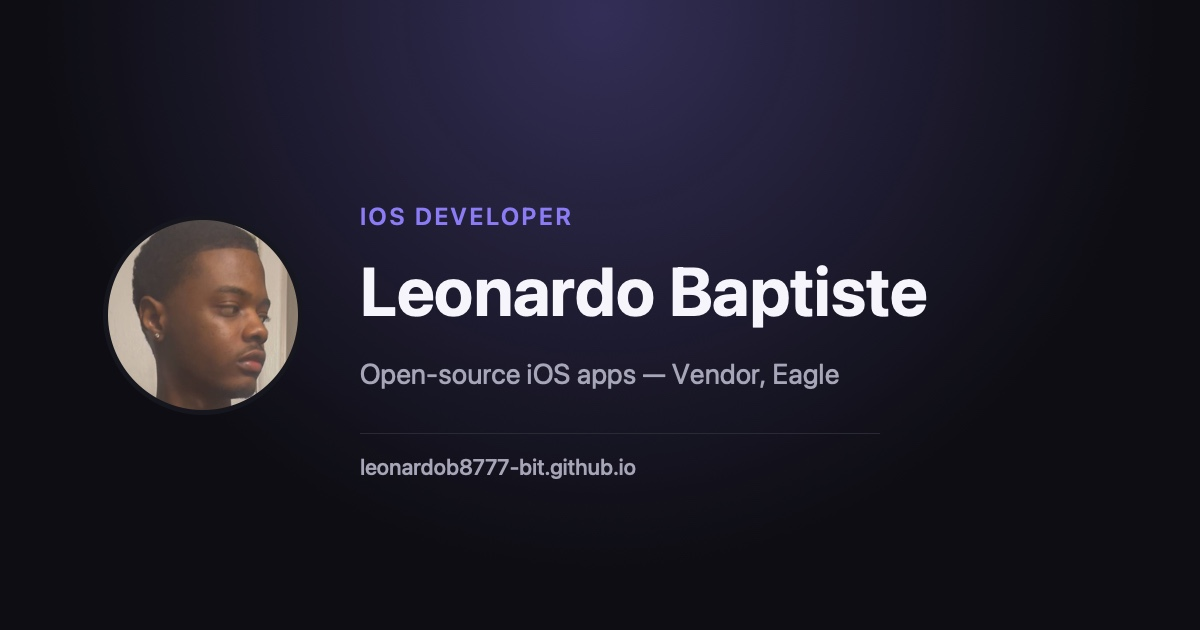
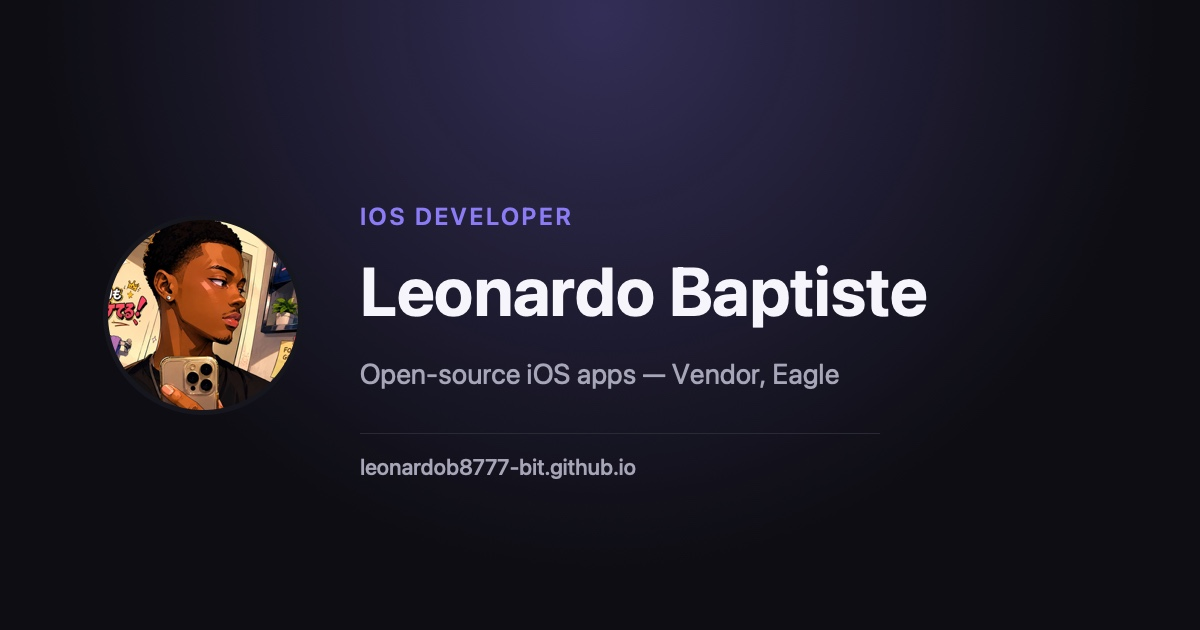
Foto de perfil: versión ilustrada, con el móvil en cuadro
Recorte cuadrado centrado en la cara pero llevando la altura completa,
para que el iPhone entre dentro del círculo del avatar — a diferencia
del recorte anterior, que lo dejaba fuera a propósito.

La imagen de vista previa del enlace se regenera con la misma foto:
lleva el avatar incrustado, así que si no, las dos superficies dejarían
de coincidir.

Sube el ?v= de ambas: sin eso, quien ya visitó la página seguiría
viendo la foto anterior servida desde su caché.

Changed region(s): [[0.0925, 0.3317, 0.2467, 0.6635]]

diff --git a/index.html b/index.html
@@ -14,7 +14,7 @@
   <meta property="og:type" content="website" />
   <meta property="og:title" content="Leonardo Baptiste — iOS Developer" />
   <meta property="og:description" content="Open-source iOS apps: Vendor, Eagle and more. All source code on GitHub." />
-  <meta property="og:image" content="https://leonardob8777-bit.github.io/assets/og-image.jpg?v=2" />
+  <meta property="og:image" content="https://leonardob8777-bit.github.io/assets/og-image.jpg?v=3" />
   <meta property="og:image:width" content="1200" />
   <meta property="og:image:height" content="630" />
   <meta property="og:url" content="https://leonardob8777-bit.github.io/" />
@@ -23,7 +23,7 @@
   <meta name="twitter:card" content="summary_large_image" />
   <meta name="twitter:title" content="Leonardo Baptiste — iOS Developer" />
   <meta name="twitter:description" content="Open-source iOS apps: Vendor, Eagle and more." />
-  <meta name="twitter:image" content="https://leonardob8777-bit.github.io/assets/og-image.jpg?v=2" />
+  <meta name="twitter:image" content="https://leonardob8777-bit.github.io/assets/og-image.jpg?v=3" />
 
   <!-- no-referrer: the destination site never learns a click came from here. -->
   <meta name="referrer" content="no-referrer" />
@@ -80,7 +80,7 @@
   <header class="topbar" id="top">
     <div class="wrap topbar__inner">
       <a class="brandmark" href="#top">
-        <img src="assets/avatar.jpg?v=2" alt="" width="30" height="30" />
+        <img src="assets/avatar.jpg?v=3" alt="" width="30" height="30" />
         <span>Leonardo Baptiste</span>
       </a>
 
@@ -109,7 +109,7 @@
     <!-- ================= HERO ================= -->
     <section class="hero">
       <div class="wrap hero__inner">
-        <img class="hero__avatar" src="assets/avatar.jpg?v=2"
+        <img class="hero__avatar" src="assets/avatar.jpg?v=3"
              alt="Leonardo Baptiste" width="92" height="92" fetchpriority="high" />
 
         <h1 class="hero__name">Leonardo Baptiste</h1>
